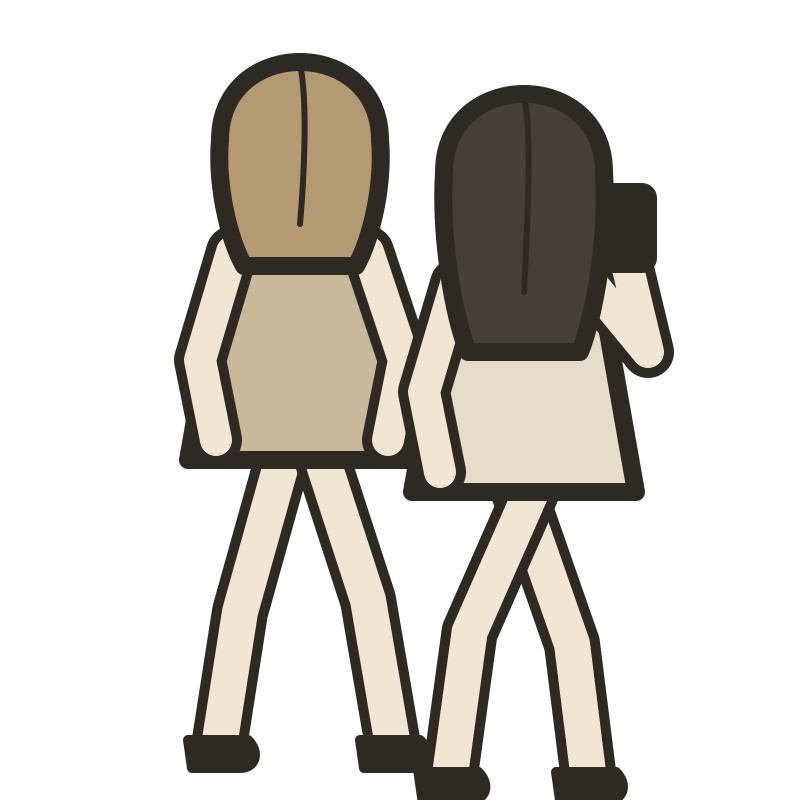
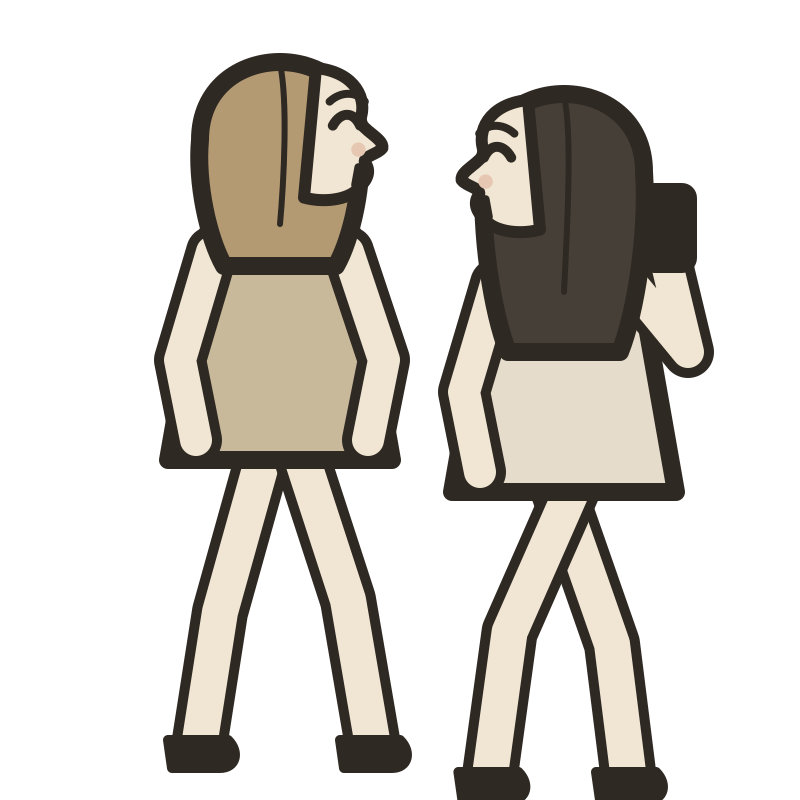
WS35 · D2 · card 2 (retoques de Tomás): los globos van ABAJO de la escena (caja redondeada apaisada, colita al mentón, la escena sube 170 px a la zona segura de TikTok) · Teo Spiderman con una sola pistolita · las chicas de espaldas con la cara de perfil riéndose entre ellas · REGLAS §5/§7 · bitácor

Changed region(s): [[0.1875, 0.0625, 0.9062, 1.0]]

diff --git a/Flipbook/motor/libro.py b/Flipbook/motor/libro.py
@@ -328,6 +328,9 @@ def secundario(d, x, y, rng, tipo="abuela", escala=1.9):
 ANCHO_GLOBO = 330            # ancho máximo de una línea adentro del globo, en píxeles
 MAX_LINEAS_GLOBO = 4         # hasta 12 palabras en 3-4 líneas cortas (WS34, el tempo)
 GLOBO_DESDE = 5              # hojas que la imagen está SOLA antes de que aparezca el globo (0,5 s)
+MODO_GLOBO = ["abajo"]       # abajo (WS35, Tomás: el globo vive en el tercio vacío de abajo y no tapa la escena) | arriba
+SUBE_ESCENA = [0]            # píxeles que la escena entera sube (WS35): TikTok tapa la franja de abajo con la
+                             # descripción y el usuario; con la escena más arriba, el globo de abajo queda en zona segura
 # La vida del cuadro (WS34): cabeceo automático de la cabeza, (grados, radianes por hoja).
 # Pipo cabecea rápido y visible; Teo apenas, lento. `vida: false` en el personaje lo apaga.
 VIDA = {"pipo": (4.0, 0.62), "teo": (1.5, 0.27)}
@@ -347,12 +350,19 @@ def _envolver(d, texto, f, ancho_max):
     return lineas
 
 
-def _texto_globo(d, texto, tam=52, minimo=38):
-    """Georgia, minúsculas, hasta 4 líneas cortas: un globo alto lee mejor que uno ancho."""
+ANCHO_GLOBO_ABAJO = 600      # el globo de abajo va APAISADO (2-3 líneas): en la franja de abajo hay ancho, no alto
+MAX_LINEAS_ABAJO = 3
+
+
+def _texto_globo(d, texto, tam=52, minimo=38, ancho=None, max_lineas=None):
+    """Georgia, minúsculas. Arriba: hasta 4 líneas cortas (un globo alto). Abajo: hasta 3
+    líneas anchas (un globo apaisado que no sube hasta la escena)."""
+    ancho = ancho or ANCHO_GLOBO
+    max_lineas = max_lineas or MAX_LINEAS_GLOBO
     while True:
         f = R.font(tam)
-        lineas = _envolver(d, texto, f, ANCHO_GLOBO)
-        if len(lineas) <= MAX_LINEAS_GLOBO or tam <= minimo:
+        lineas = _envolver(d, texto, f, ancho)
+        if len(lineas) <= max_lineas or tam <= minimo:
             return f, lineas, tam
         tam -= 4
 
@@ -367,7 +377,7 @@ def _colita(cx, cy, rx, ry, ax, ay):
     return b1, b2, base, punta
 
 
-def globo(d, texto, ancla, rng, evitar=(), forzar=None, flota=0.0):
+def globo(d, texto, ancla, rng, evitar=(), forzar=None, flota=0.0, modo=None, ancla_abajo=None):
     """Dibuja el globo de Pipo. `ancla` = (x, y) de su cabeza: de ahí sale la colita.
     `evitar` = cajas (x0, y0, x1, y1) que ni el globo ni la colita pueden tapar (las caras
     y la burbuja de pensamiento). Se prueban posiciones cerca de Pipo y se elige la primera
@@ -375,45 +385,78 @@ def globo(d, texto, ancla, rng, evitar=(), forzar=None, flota=0.0):
     baja en esta hoja (la vida del cuadro)."""
     if not texto:
         return
-    f, lineas, tam = _texto_globo(d, texto)
+    modo = modo or MODO_GLOBO[0]
+    if modo == "abajo":
+        f, lineas, tam = _texto_globo(d, texto, ancho=ANCHO_GLOBO_ABAJO, max_lineas=MAX_LINEAS_ABAJO)
+    else:
+        f, lineas, tam = _texto_globo(d, texto)
     tw = max(ancho(d, s, f)[0] for s in lineas)
     th = len(lineas) * int(tam * 1.28)
-    rx, ry = tw * 0.70 + 40, th * 0.86 + 38
+    if modo == "abajo":                              # caja redondeada: contiene el texto con poco margen
+        rx, ry = tw / 2 + 44, th / 2 + 34
+    else:                                            # óvalo de historieta
+        rx, ry = tw * 0.70 + 40, th * 0.86 + 38
 
     ax, ay = ancla
     # la cabeza de la que sale la colita no cuenta como obstáculo de la colita
-    esquivar_colita = [c for c in evitar
-                       if not (c[0] - 30 < ax < c[2] + 30 and c[1] - 30 < ay < c[3] + 30)]
+    cabeza = [c for c in evitar if (c[0] - 30 < ax < c[2] + 30 and c[1] - 30 < ay < c[3] + 30)]
+    esquivar_colita = [c for c in evitar if c not in cabeza]
     if forzar:
         cx, cy = forzar
     else:
-        candidatos = [(ax, ay - ry - 80), (ax - rx - 130, ay - 30), (ax + rx + 130, ay - 30),
-                      (ax - rx - 90, ay - ry - 130), (ax + rx + 90, ay - ry - 130),
-                      (ax, ay - ry - 330), (ax - 320, ay - ry - 380), (ax + 320, ay - ry - 380),
-                      (R.W / 2, 340), (rx + 60, 340), (R.W - rx - 60, 340)]
+        arriba = [(ax, ay - ry - 80), (ax - rx - 130, ay - 30), (ax + rx + 130, ay - 30),
+                  (ax - rx - 90, ay - ry - 130), (ax + rx + 90, ay - ry - 130),
+                  (ax, ay - ry - 330), (ax - 320, ay - ry - 380), (ax + 320, ay - ry - 380),
+                  (R.W / 2, 340), (rx + 60, 340), (R.W - rx - 60, 340)]
+        yb = min(PISO - int(SUBE_ESCENA[0]) + ry + 40, R.H - ry - 180)
+        mx, my = ancla_abajo or ancla
+        abajo = [(mx, yb, (mx, my)), (R.W / 2, yb, (mx, my)), (rx + 70, yb, (mx, my)), (R.W - rx - 110, yb, (mx, my)),
+                 (mx - 260, yb, (mx, my)), (mx + 260, yb, (mx, my))]
+        arriba = [(px, py, (ax, ay)) for px, py in arriba]
+        candidatos = (abajo + arriba) if modo == "abajo" else (arriba + abajo)
         mejor, puntaje_mejor = None, None
-        for k, (px, py) in enumerate(candidatos):
+        for k, (px, py, (ax, ay)) in enumerate(candidatos):
             px = entre(px, rx + 55, R.W - rx - 55)
-            py = entre(py, ry + 150, R.H - ry - 290)
+            py = entre(py, ry + 150, R.H - ry - 180)
             caja = (px - rx, py - ry, px + rx, py + ry)
             b1, b2, base, punta = _colita(px, py, rx, ry, ax, ay)
             puntaje = 4.0 * sum(_solape(caja, c) for c in evitar)
             puntaje += 9.0 * sum(1 for c in esquivar_colita
                                  if _cruza(base, punta, c) or _cruza(b1, punta, c) or _cruza(b2, punta, c))
             puntaje += math.hypot(px - ax, py - ay) / 340.0 + k * 0.05
-            puntaje += max(0.0, py - 650) / 250.0     # los globos viven arriba, como en la historieta
+            if modo == "abajo":                       # los globos viven abajo: no tapan la escena
+                puntaje += max(0.0, yb - py) / 250.0
+            else:                                     # los globos viven arriba, como en la historieta
+                puntaje += max(0.0, py - 650) / 250.0
             if puntaje_mejor is None or puntaje < puntaje_mejor:
-                mejor, puntaje_mejor = (px, py), puntaje
-        cx, cy = mejor
+                mejor, puntaje_mejor = (px, py, ax, ay), puntaje
+        cx, cy, ax, ay = mejor
     cy += flota
 
-    R.circle(d, cx, cy, rx, rng, width=6, fill=R.IVORY, ry=ry, amp=2.5)
+    if modo == "abajo":
+        _caja_globo(d, cx, cy, rx, ry, rng)
+    else:
+        R.circle(d, cx, cy, rx, rng, width=6, fill=R.IVORY, ry=ry, amp=2.5)
     b1, b2, _, punta = _colita(cx, cy, rx, ry, ax, ay)
     d.polygon([b1, punta, b2, (cx, cy)], fill=R.IVORY)      # el relleno tapa el borde del óvalo
     R.stroke(d, [b1, punta], rng, width=6, amp=1.2)
     R.stroke(d, [b2, punta], rng, width=6, amp=1.2)
     for k, s in enumerate(lineas):
         d.text((cx, cy - th / 2 + int(tam * 1.28) * (k + 0.5)), s, fill=R.UMBER, font=f, anchor="mm")
+
+
+def _caja_globo(d, cx, cy, rx, ry, rng, radio=48):
+    """El globo apaisado de abajo: un rectángulo redondeado de línea temblorosa."""
+    pts = []
+    esquinas = [(cx + rx - radio, cy - ry + radio, -0.5), (cx + rx - radio, cy + ry - radio, 0.0),
+                (cx - rx + radio, cy + ry - radio, 0.5), (cx - rx + radio, cy - ry + radio, 1.0)]
+    for ex, ey, a0 in esquinas:
+        for k in range(7):
+            a = (a0 + 0.5 * k / 6) * math.pi
+            pts.append((ex + radio * math.cos(a), ey + radio * math.sin(a)))
+    pts = R.wobble(pts, rng, 2.0)
+    d.polygon(pts, fill=R.IVORY)
+    d.line(pts + [pts[0]], fill=R.UMBER, width=6, joint="curve")
 
 
 def _solape(a, b):
@@ -564,14 +607,19 @@ CARAS_ASOMA = {"problema": "fastidio", "espejo": "orgullo", "magia": "orgullo", 
 def hoja_de(m, cuadro, i, n, rng, desp=0.0):
     """Dibuja UNA hoja del cuadro (beat) `cuadro`, hoja número `i` de `n`."""
     im = R.paper(rng)
-    d = ImageDraw.Draw(im)
+    sube = int(SUBE_ESCENA[0])
+    # la escena se dibuja sobre un papel OPACO (no una capa transparente: el aura y los bordes
+    # antialiasados se oscurecen al componer sobre alfa cero) y se pega corrida hacia arriba
+    lienzo = R.paper(random.Random(rng.randint(0, 10 ** 6))) if sube else im
+    d = ImageDraw.Draw(lienzo)
     t = i / max(1, n - 1)
     caras = []
     anclas_fondo = {}
     ancla_pipo = None
+    ancla_menton = None
 
     if cuadro.get("zoom"):
-        caras += _zoom(m, im, d, cuadro["zoom"], i, n, t, rng)
+        caras += _zoom(m, lienzo, d, cuadro["zoom"], i, n, t, rng)
     else:
         fn = FONDOS.get(cuadro.get("fondo", "ninguno"), FONDOS["ninguno"])
         anclas_fondo = fn(d, rng, desp, "atras") or {}
@@ -581,29 +629,39 @@ def hoja_de(m, cuadro, i, n, rng, desp=0.0):
             secundario(d, sx, sy, rng, tipo=sec.get("tipo", "abuela"), escala=se)
             caras.append((sx - 48 * se, sy - 58 * se, sx + 48 * se, sy + 56 * se))
         for pz in _lista(cuadro.get("piezas")):
-            caras.append(_pieza_suelta(m, im, pz, anclas_fondo, t, rng))
+            caras.append(_pieza_suelta(m, lienzo, pz, anclas_fondo, t, rng))
         fn(d, rng, desp, "delante")
         caras += _props_sueltos(d, cuadro, anclas_fondo, t, rng, delante=False)
         for quien in ("teo", "pipo"):
             spec = cuadro.get(quien)
             if not spec:
                 continue
-            punto, cajas = pegar_personaje(m, im, d, quien, spec, i, n, t, rng, anclas_fondo)
+            punto, cajas = pegar_personaje(m, lienzo, d, quien, spec, i, n, t, rng, anclas_fondo)
             caras += cajas
             if quien == "pipo":
                 caja = cajas[-1]                       # la última es la cabeza
                 ancla_pipo = ((caja[0] + caja[2]) / 2, caja[1] + 0.25 * (caja[3] - caja[1]))
+                ancla_menton = ((caja[0] + caja[2]) / 2, caja[1] + 0.92 * (caja[3] - caja[1]))
         caras += _props_sueltos(d, cuadro, anclas_fondo, t, rng, delante=True)
 
     if cuadro.get("anillos"):                        # la respiración de la escena de la magia
         _anillos(d, m, cuadro, i, rng)
+
+    if sube:                                         # la escena entera sube; las cajas y anclas también
+        im.paste(lienzo, (0, -sube))
+        d = ImageDraw.Draw(im)
+        caras = [(c[0], c[1] - sube, c[2], c[3] - sube) for c in caras]
+        if ancla_pipo:
+            ancla_pipo = (ancla_pipo[0], ancla_pipo[1] - sube)
+            ancla_menton = (ancla_menton[0], ancla_menton[1] - sube)
 
     texto = globo_en(cuadro, i, n)
     if texto:
         if ancla_pipo is None:                       # Pipo no está en el cuadro: asoma por un borde
             ancla_pipo, caja = _pipo_asoma(m, im, cuadro, rng)
             caras.append(caja)
-        globo(d, texto, ancla_pipo, rng, evitar=caras, flota=5.0 * math.sin(i * 0.5))
+        globo(d, texto, ancla_pipo, rng, evitar=caras, flota=5.0 * math.sin(i * 0.5),
+              modo=cuadro.get("globo_lado"), ancla_abajo=ancla_menton)
     return im
 
 
@@ -1045,6 +1103,8 @@ def contratapa(rng):
 def render(ruta_guion, solo_cuadros=False):
     g = cargar(ruta_guion)
     nombre = g.get("nombre") or os.path.splitext(os.path.basename(ruta_guion))[0]
+    MODO_GLOBO[0] = g.get("globos", "abajo")
+    SUBE_ESCENA[0] = int(g.get("subir_escena", 170 if MODO_GLOBO[0] == "abajo" else 0))
     m = Marioneta()
     cuadros = aplanar(g)
     total_hojas = sum(c["hojas"] for c in cuadros) + HOJAS_CIERRE

diff --git a/Flipbook/motor/partes.py b/Flipbook/motor/partes.py
@@ -635,12 +635,9 @@ def teo_cuerpo_spiderman():
     p.append(zapatilla(154, 388, ang=0))
     p.append(miembro([(200, 246), (256, 300), (306, 370)], grosor=30, color=PANTALON))
     p.append(zapatilla(318, 380, ang=-18))                     # el talón adelante, la punta arriba: el paso
-    # brazo de atrás (más claro), ANTES del torso: el codo hacia atrás, la pistola adelante y abajo
-    p.append(miembro([(160, 128), (146, 204), (232, 222)], grosor=20, color="#e4d8c4"))
     # torso echado hacia atrás: los hombros ATRÁS de la cadera, la cadera hacia adelante
     p.append(path("M 148 106 C 126 150, 136 202, 154 250 L 240 250 C 250 202, 240 150, 222 106 Z", fill=REMERA))
     p.append(path("M 164 106 C 172 118, 200 118, 208 106", w=W_SEC))
-    p.append(_pistolita(242, 224, ang=12, s=1.4))
     # brazo de adelante: el codo afuera y adelante, la pistola alta apuntando a las chicas
     p.append(miembro([(224, 124), (270, 192), (322, 150)], grosor=22))
     p.append(_pistolita(332, 146, ang=-26, s=1.5))
@@ -786,9 +783,29 @@ def familia(estado="living"):
 
 PELO_CHICA_1 = "#463f38"; PELO_CHICA_2 = "#b39a72"; VESTIDO_1 = "#e6dccb"; VESTIDO_2 = "#c9b99b"
 
-def _chica_espaldas(cx, top, pelo, vestido, telefono=False, paso=1.0, largo_pelo=1.0):
+def _perfil_riendo(cx, cy, r, lado):
+    """La cara de perfil asomando de la melena hacia `lado` (+1 derecha · −1 izquierda):
+    frente, nariz, labios y mentón; el ojo cerrado de risa, la ceja alta y la boca abierta.
+    Es lo que hace que se lea "se ríen de él" (Tomás, WS35)."""
+    L = lado
+    cara = (f"M {cx + L * r * 0.45} {cy - r * 0.9} C {cx + L * r * 0.95} {cy - r * 0.85}, {cx + L * r * 1.1} {cy - r * 0.5}, {cx + L * r * 1.0} {cy - r * 0.25} "
+            f"C {cx + L * r * 1.02} {cy - r * 0.12}, {cx + L * r * 1.3} {cy - r * 0.02}, {cx + L * r * 1.28} {cy + r * 0.1} "
+            f"C {cx + L * r * 1.22} {cy + r * 0.18}, {cx + L * r * 1.04} {cy + r * 0.2}, {cx + L * r * 1.06} {cy + r * 0.28} "
+            f"C {cx + L * r * 1.14} {cy + r * 0.38}, {cx + L * r * 1.1} {cy + r * 0.5}, {cx + L * r * 0.98} {cy + r * 0.6} "
+            f"C {cx + L * r * 0.9} {cy + r * 0.72}, {cx + L * r * 0.6} {cy + r * 0.8}, {cx + L * r * 0.3} {cy + r * 0.72} Z")
+    p = [path(cara, fill=PIEL, w=W_SEC + 1)]
+    ex, ey = cx + L * r * 0.82, cy - r * 0.22
+    p.append(path(f"M {ex - L * r * 0.16} {ey + r * 0.04} C {ex - L * r * 0.06} {ey - r * 0.14}, {ex + L * r * 0.1} {ey - r * 0.14}, {ex + L * r * 0.18} {ey + r * 0.04}", w=W_SEC))
+    p.append(path(f"M {ex - L * r * 0.2} {ey - r * 0.26} C {ex - L * r * 0.05} {ey - r * 0.4}, {ex + L * r * 0.15} {ey - r * 0.38}, {ex + L * r * 0.24} {ey - r * 0.26}", w=W_SEC - 1))
+    mx, my = cx + L * r * 1.0, cy + r * 0.4
+    p.append(path(f"M {mx - L * r * 0.02} {my - r * 0.06} C {mx + L * r * 0.14} {my - r * 0.02}, {mx + L * r * 0.12} {my + r * 0.16}, {mx - L * r * 0.06} {my + r * 0.16} Z", fill=UMBER, w=W_SEC - 1))
+    p.append(circ(cx + L * r * 0.98, cy + r * 0.12, r * 0.09, "#e6c7b2"))
+    return grupo(p)
+
+def _chica_espaldas(cx, top, pelo, vestido, telefono=False, paso=1.0, largo_pelo=1.0, mira=0):
     """Una chica de espaldas caminando hacia la derecha: la melena tapa la cabeza, vestido
-    corto, piernas en zancada. Si `telefono`, el brazo derecho sube con el teléfono."""
+    corto, piernas en zancada. Si `telefono`, el brazo derecho sube con el teléfono. Si
+    `mira` es ±1, gira la cabeza hacia ese lado y asoma la cara de perfil riéndose."""
     p = []
     r = 40
     cy = top + r
@@ -811,12 +828,15 @@ def _chica_espaldas(cx, top, pelo, vestido, telefono=False, paso=1.0, largo_pelo
                   f"C {cx + r * 1.05} {cy + 30 * largo_pelo}, {cx + r * 0.9} {cy + 70 * largo_pelo}, {cx + r * 0.7} {cy + 90 * largo_pelo} "
                   f"L {cx - r * 0.7} {cy + 90 * largo_pelo} C {cx - r * 0.9} {cy + 70 * largo_pelo}, {cx - r * 1.05} {cy + 30 * largo_pelo}, {cx - r} {cy} Z", fill=pelo))
     p.append(path(f"M {cx} {cy - r * 0.95} C {cx + 4} {cy - 20}, {cx + 2} {cy + 20}, {cx} {cy + 60 * largo_pelo}", stroke=UMBER, w=W_SEC - 2))
+    if mira:
+        p.append(_perfil_riendo(cx, cy, r, mira))
     return grupo(p)
 
 def chicas_pasan():
     """Dos chicas de espaldas yéndose hacia la derecha; la de adelante mira su teléfono."""
-    p = [_chica_espaldas(150, 30, PELO_CHICA_2, VESTIDO_2, telefono=False, paso=1.0, largo_pelo=0.7),
-         _chica_espaldas(262, 46, PELO_CHICA_1, VESTIDO_1, telefono=True, paso=-0.8, largo_pelo=1.0)]
+    # se miran entre ellas riéndose: la de la izquierda gira a la derecha y la de la derecha, a la izquierda
+    p = [_chica_espaldas(140, 30, PELO_CHICA_2, VESTIDO_2, telefono=False, paso=1.0, largo_pelo=0.7, mira=1),
+         _chica_espaldas(282, 46, PELO_CHICA_1, VESTIDO_1, telefono=True, paso=-0.8, largo_pelo=1.0, mira=-1)]
     return svg(p), {"centro": [200, 200], "tipo": "grupo"}
 
 # =====================================================================================

diff --git a/Flipbook/REGLAS.md b/Flipbook/REGLAS.md
@@ -111,6 +111,13 @@ en personaje y al escribir un guion.
 - **Si Pipo no está en el cuadro, Pipo ASOMA:** se pega su cabeza sola por un borde lateral
   o inferior de la hoja para que el globo tenga de dónde salir. El motor lo hace solo
   (derecha abajo, con la cara de la escena) o el guion lo dice con `pipo_asoma`.
+- **El globo vive ABAJO de la escena (Tomás, WS35):** en vertical, la escena ocupa la franja
+  del medio y el globo va debajo, como una caja redondeada apaisada (2-3 líneas anchas) con
+  la colita subiendo al mentón de Pipo; así nunca tapa la imagen. Para que quede en la zona
+  segura de TikTok (la app tapa la franja de abajo con la descripción y el usuario, y la
+  columna derecha con los íconos), **la escena entera sube 170 px** (`subir_escena`). El
+  modo viejo (óvalo arriba, como en la historieta) sigue con `globos: arriba` en el guion o
+  `globo_lado: arriba` en un cuadro.
 - El globo **nunca tapa una cara** ni el objeto que el personaje sostiene: el motor mide las
   cajas reales y elige dónde ponerlo (ver §7).
 - Tono: sátira con ternura (Mafalda, Macanudo, Snoopy), humor de gesto, nunca sermón. Lo gracioso engancha; lo emocional hace volver.
@@ -183,6 +190,7 @@ el motor: no se declaran.
 | `zoom` | la hoja "acerca": `pieza` (`teo/cara_…`, `pipo/…`, `props/…`) o `prop`, con `escala`, `rot`, `ciclo`, `manos: true`. |
 | `pipo_dice` | el texto del globo (≤12 palabras, 3-4 líneas), o una **lista** de textos = varios globos seguidos sobre la misma imagen. |
 | `globo_desde` | hojas que la imagen está sola antes del primer globo (5 por defecto = 0,5 s). |
+| `globo_lado` | `abajo` (por defecto desde la WS35) o `arriba`, por cuadro. A nivel guion: `globos: abajo \| arriba` y `subir_escena: 170` (píxeles que sube la escena entera; 170 con globos abajo, 0 con arriba). |
 | `pipo_asoma` | `lado` (`izquierda`, `derecha`, `abajo`) y `cara`, para cuando Pipo no está en el cuadro. |
 | `parallax` | píxeles que corre el fondo por hoja (árboles de `calle` y `banco_plaza`). |
 

diff --git a/WS/WS35_08-09-2026.md b/WS/WS35_08-09-2026.md
@@ -80,3 +80,20 @@ familia 0.95 a la izquierda, **Teo espejado** 1.25 en la punta derecha con el au
 bien, el globo tapa a Teo, ajustar tamaños" → aplicada.
 
 **Estado: pendiente de validación de Tomás (mira `pruebas/vol01_piezas.png`).**
+
+**Devolución de Tomás sobre la card 2 ("se ve bien") → tres cambios:**
+1. **Los globos van ABAJO de la escena.** Su lectura: como Pipo es el más bajo y los globos
+   van arriba, siempre tapan la imagen. Motor: `MODO_GLOBO` (`globos:` en el guion,
+   `globo_lado:` por cuadro), candidatos de abajo primero, **caja redondeada apaisada**
+   (`_caja_globo`, 2-3 líneas de 600 px: el óvalo apaisado seguía siendo alto y pisaba a
+   Pipo), la colita apunta al **mentón** (`ancla_abajo`), y el globo se ata al piso
+   (`PISO - SUBE + ry + 40`). **Zona segura de TikTok:** la app tapa la franja de abajo con la
+   descripción y el usuario → `subir_escena: 170` por defecto con globos abajo: la escena se
+   dibuja en un papel opaco y se pega corrida hacia arriba (gotcha: con una capa RGBA
+   transparente el aura y los bordes salían grises: el paste con máscara sobre alfa cero
+   oscurece). Las cajas y anclas se corren con la escena.
+2. **Teo Spiderman sin la mano de abajo** ("se ve muy rara"): una sola pistolita.
+3. **Las chicas, de espaldas pero con la cara de perfil riéndose entre ellas**
+   (`_perfil_riendo`: frente-nariz-labios-mentón asomando de la melena, ojo cerrado de risa,
+   ceja alta, boca abierta, rubor). Se miran una a la otra: "y a este flaco qué le pasa".
+Muestra `pruebas/vol01_piezas.png` regenerada. El vol. 0 sigue renderizando.
